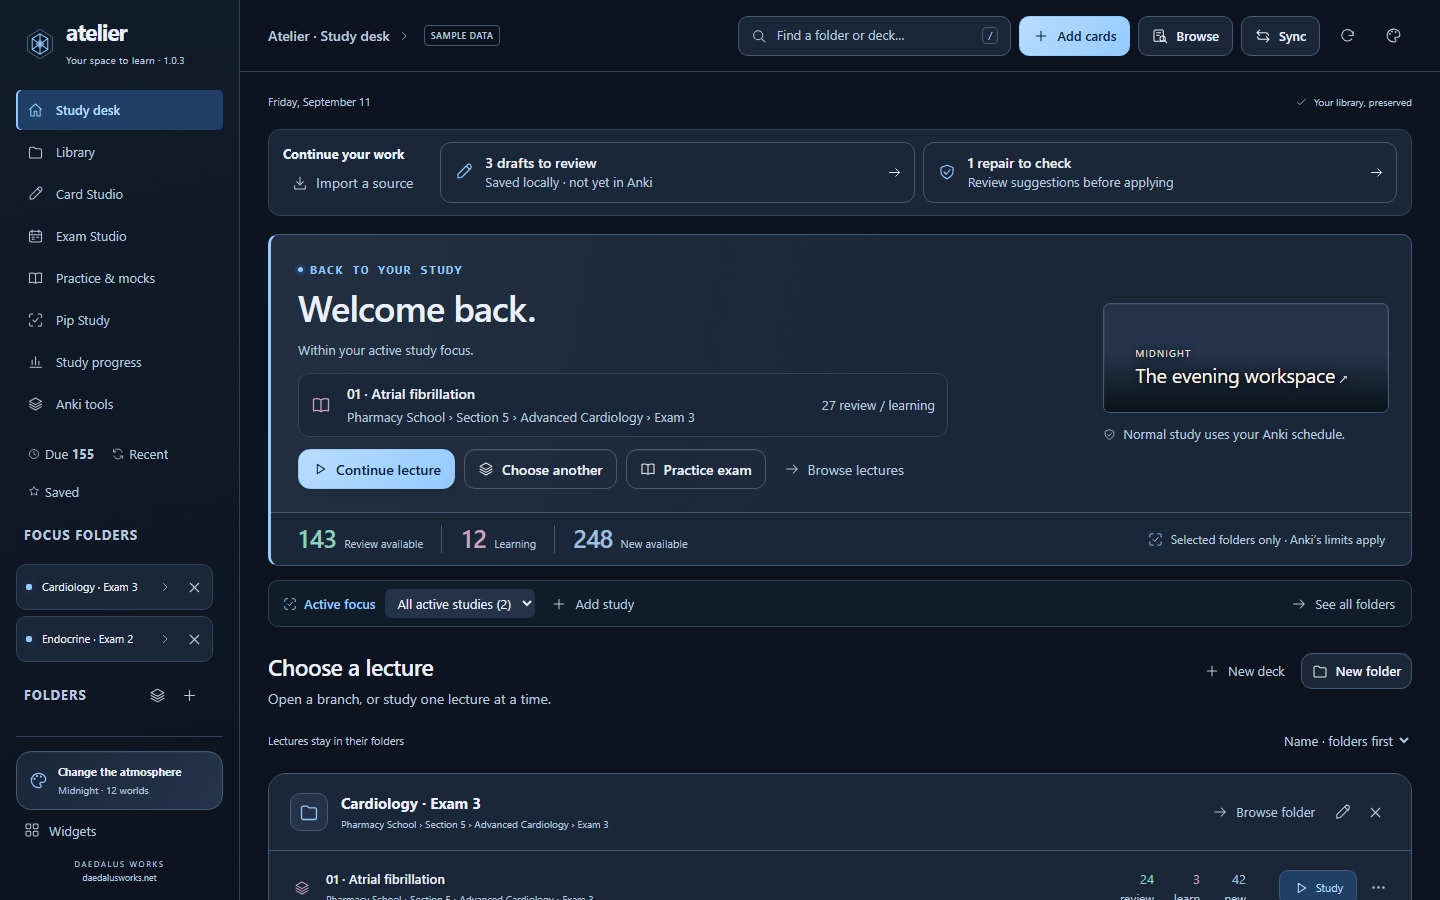
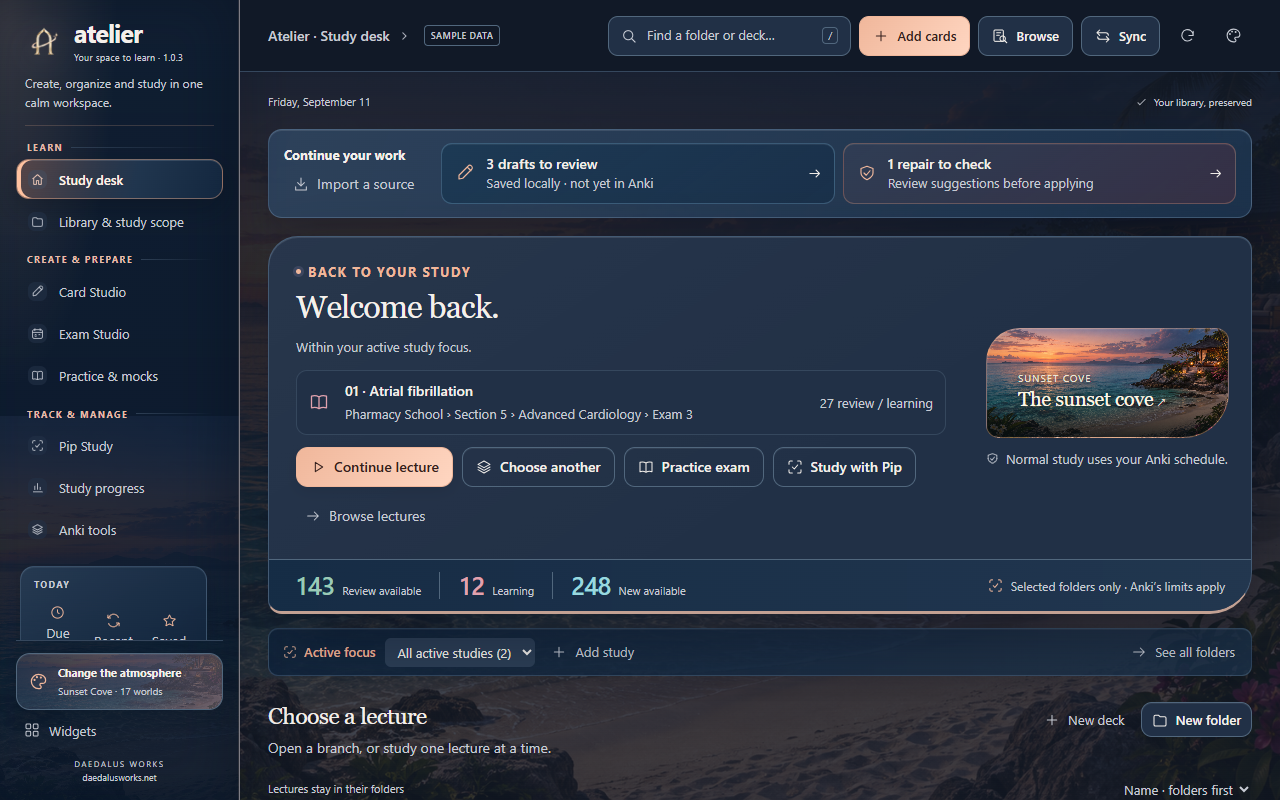
Use final Sunset Cove render on release site

diff --git a/site/index.html b/site/index.html
@@ -33,7 +33,7 @@
       </div>
       <figure class="product-frame">
         <div class="frame-bar"><span></span><span></span><span></span><b>Atelier · Study desk</b></div>
-        <img src="assets/atelier-home.png" alt="The real Atelier 1.0.3 study desk rendered in the Midnight world" width="1440" height="900">
+        <img src="assets/atelier-home.png" alt="The real Atelier 1.0.3 study desk rendered in the Sunset Cove world" width="1280" height="800">
         <figcaption>Actual 1.0.3 interface with synthetic review data</figcaption>
       </figure>
     </section>
@@ -54,7 +54,7 @@
       <div class="feature-grid">
         <article class="feature-card feature-wide">
           <div><span class="feature-number">01</span><h3>Organize and choose</h3><p>Browse nested lecture folders, select the exact study scope, and return to saved drafts, masks, exam plans, and sessions.</p></div>
-          <img src="assets/atelier-home.png" alt="Atelier study desk showing current work and a nested lecture folder" width="1440" height="900">
+          <img src="assets/atelier-home.png" alt="Atelier study desk showing current work and a nested lecture folder in Sunset Cove" width="1280" height="800">
         </article>
         <article class="feature-card">
           <div><span class="feature-number">02</span><h3>Create slide sets with review built in</h3><p>Keep slides, PDFs, images, notes, and drafts in a card set. Choose the exact source page, build questions or image occlusions beside it, then approve cards into an Anki deck.</p></div>
